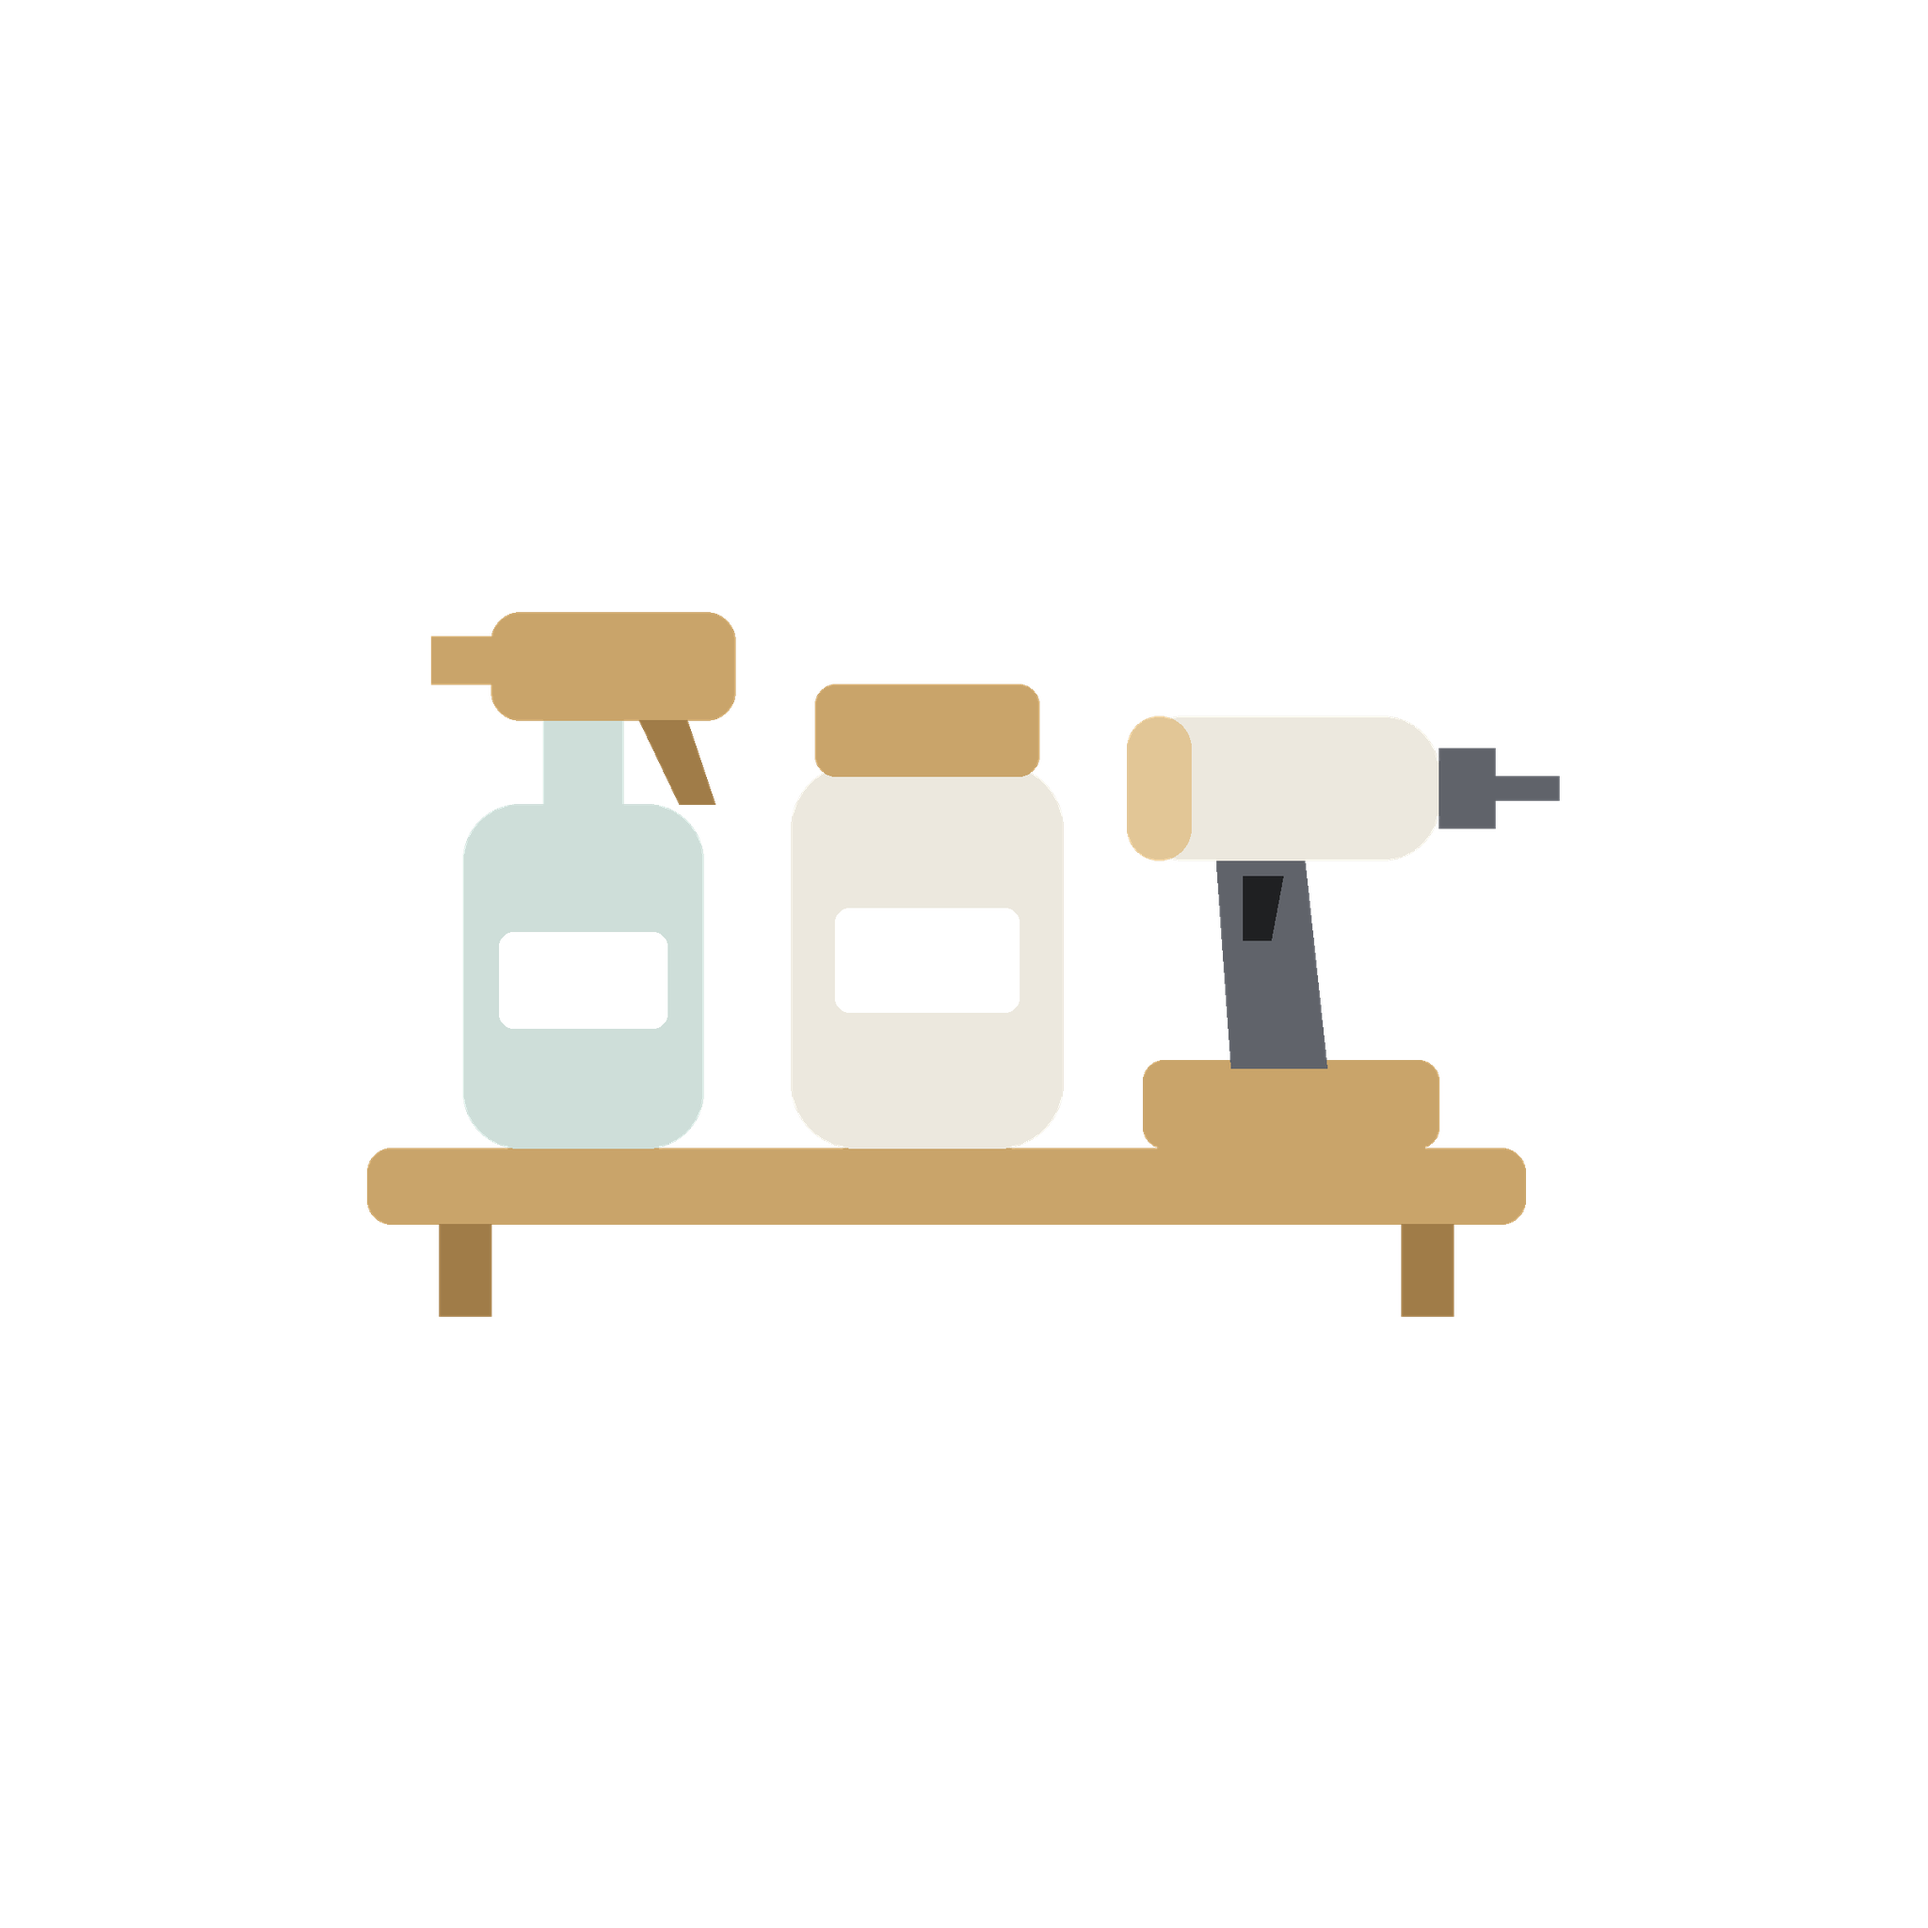
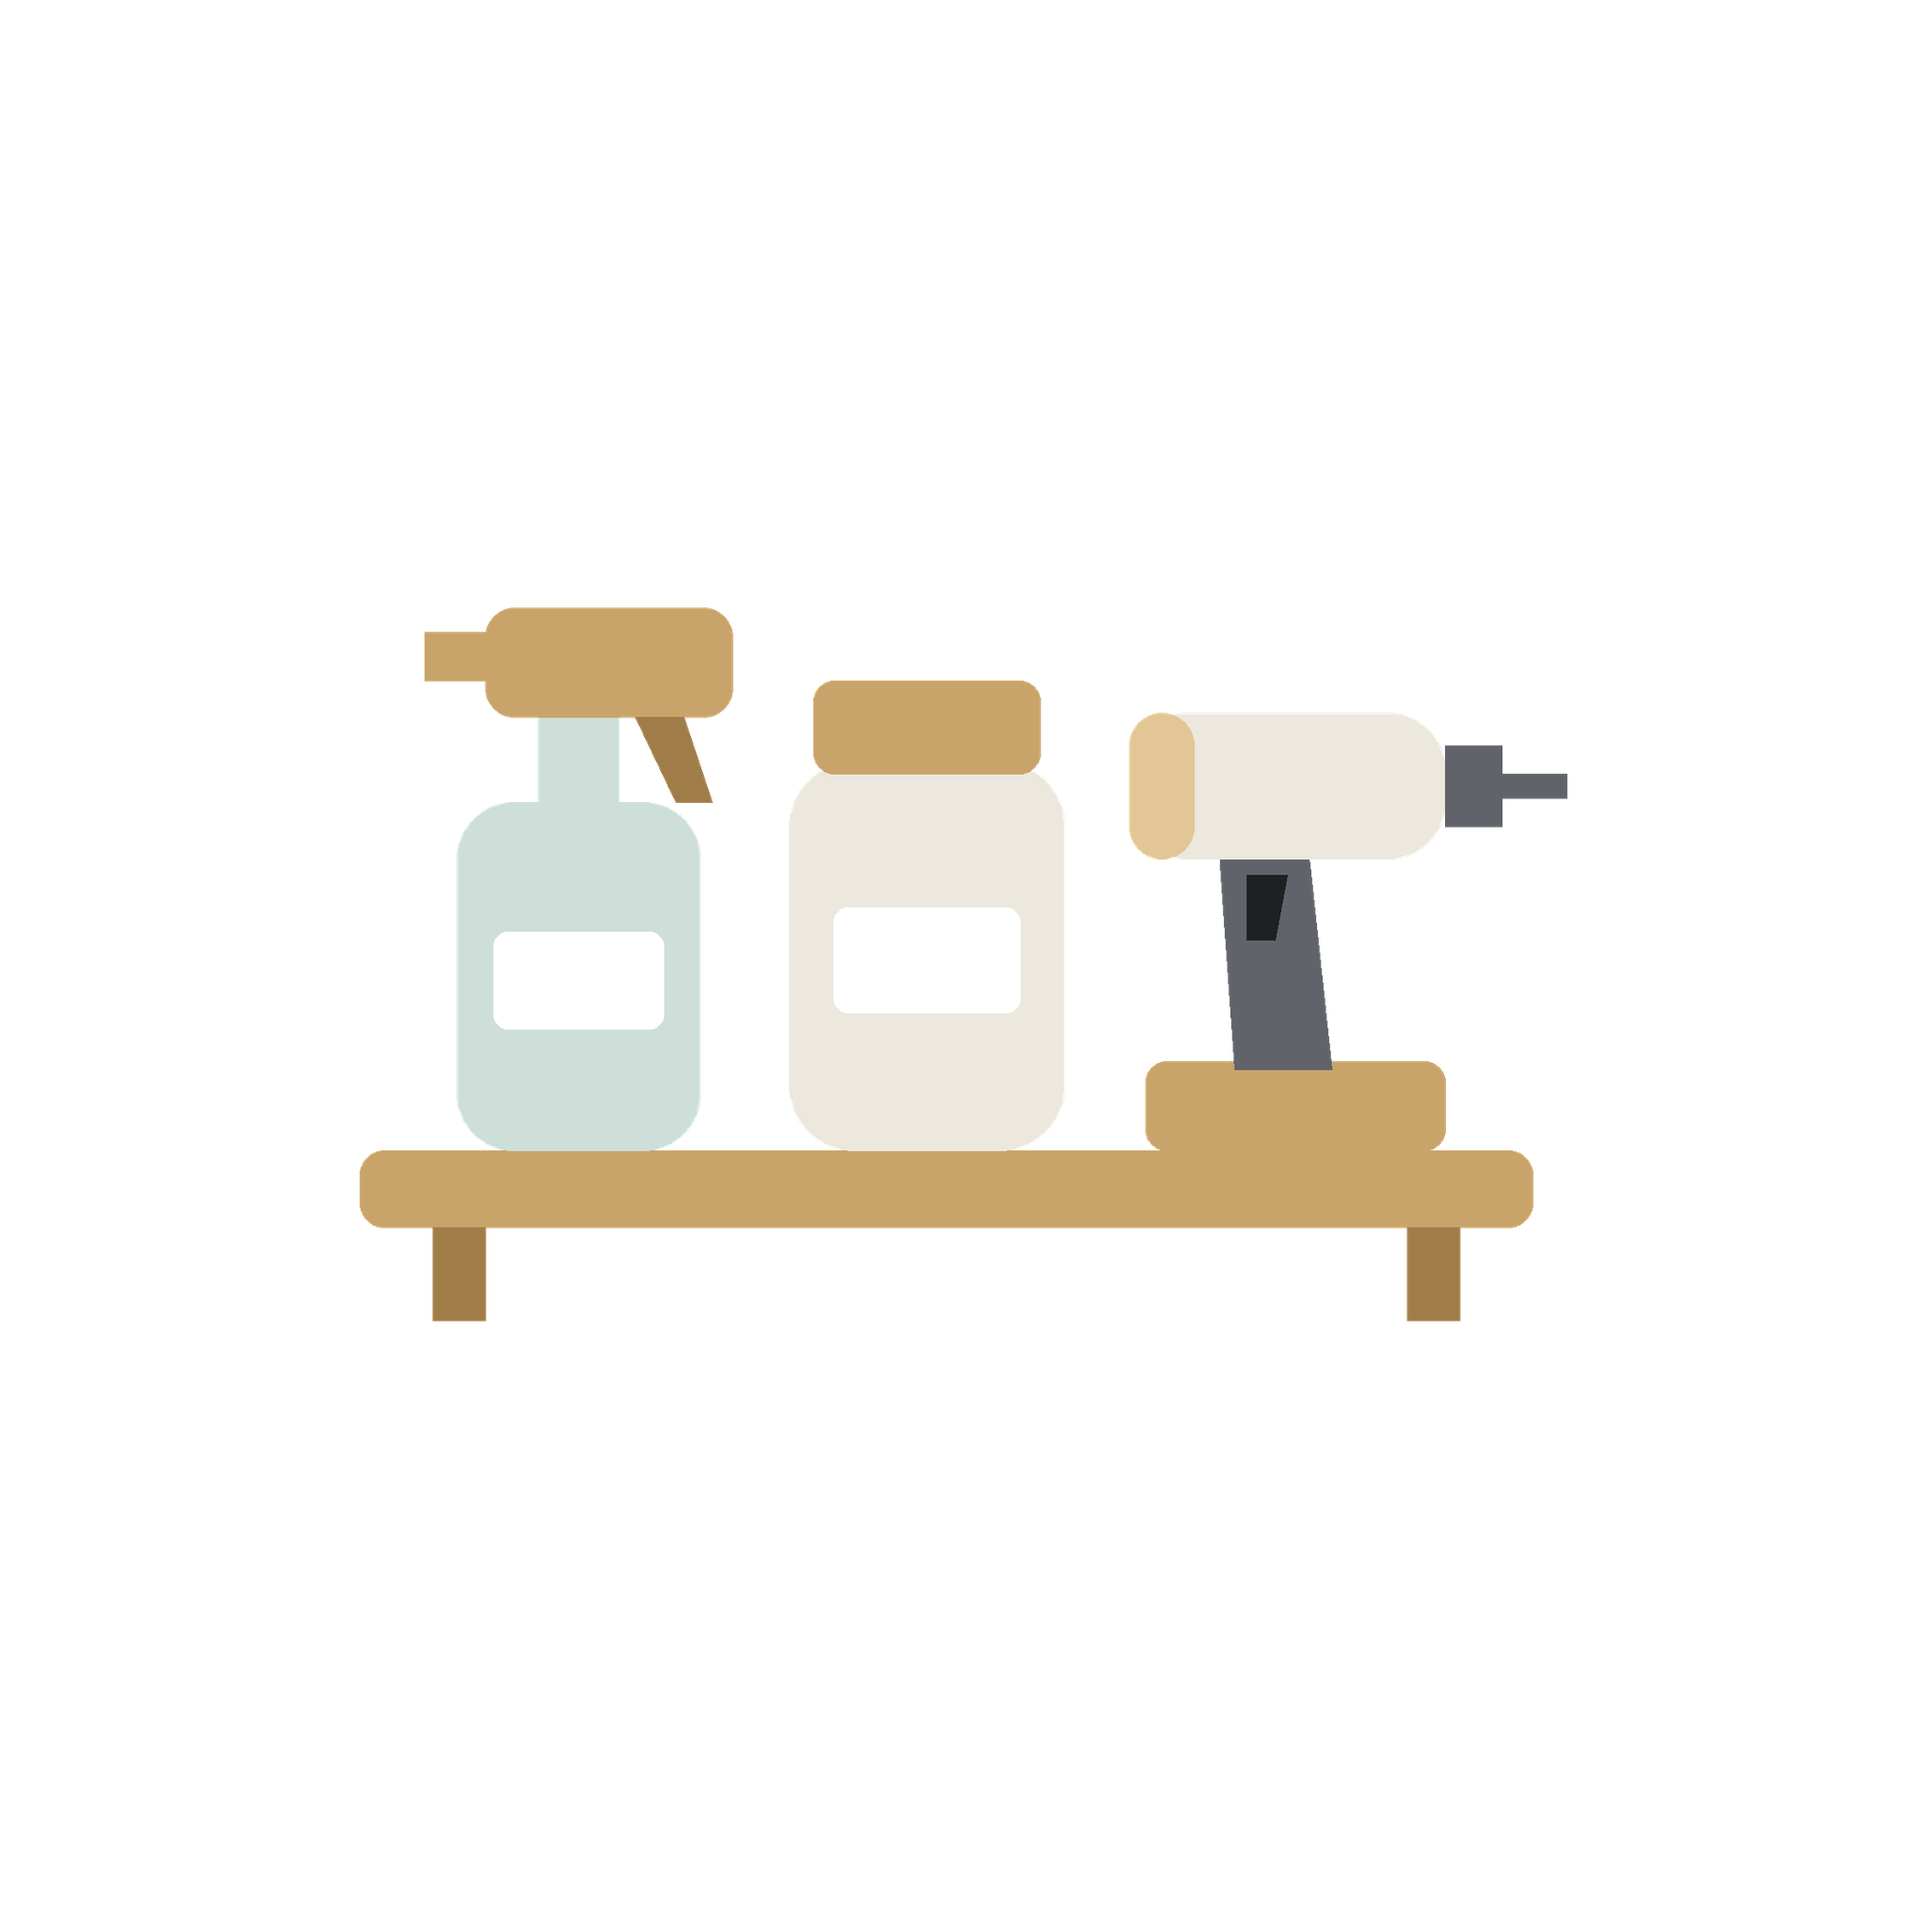
Kaydırınca küçülen üst bölüm; ikon çerçeveye yaklaştırıldı
Claude-Session: https://claude.ai/code/session_0157nVUCjmfAmmgk4EFESpMQ

diff --git a/www/index.html b/www/index.html
@@ -12,6 +12,7 @@
    LAYOUT: sabit üst bant + arama/sırala/filtre + kategori çipleri, kartlar, sağ altta + */
 :root{color-scheme:dark;--bg:#1f2022;--card:#303236;--ink:#eeeeec;--mute:#a3a5a8;--line:#3d3f44;--kraft:#c9a46a;--kraft2:#b48d52;--onk:#1b1a17;--warn:#ff8a4c;--bad:#ff6b6b;--ok:#86c97f;--seg:#eeeeec;--segoff:#4c4e54;--chip:#3a3c41}
 *{box-sizing:border-box;min-width:0;-webkit-tap-highlight-color:transparent}
+html{overflow-anchor:none}
 body{margin:0;background:var(--bg);color:var(--ink);font:16px/1.45 system-ui,-apple-system,"Segoe UI",Roboto,sans-serif;overflow-x:clip}
 button,input,select,textarea{font:inherit;color:inherit}
 button{cursor:pointer}
@@ -117,6 +118,20 @@ body.selecting .fab{display:none}
 .rad button.on{background:var(--chip);font-weight:650}
 .rad button span{font-size:13px;color:var(--mute)}
 .hid{display:none!important}
+/* kaydırınca küçülen üst bölüm */
+header,.top h1,.top .sum,.icon,.icon svg,.search,.search input,.chips,.chips button{transition:all .22s ease}
+body.compact header{padding-top:max(6px,env(safe-area-inset-top));padding-bottom:6px}
+body.compact .top h1{font-size:18px}
+body.compact .top .sum{font-size:11px}
+body.compact .icon{width:32px;height:32px;border-radius:8px}
+body.compact .icon svg{width:17px;height:17px}
+body.compact .icon .dot{top:4px;right:4px;width:7px;height:7px}
+body.compact .search{margin-top:6px}
+body.compact .search input{height:32px;font-size:14px;border-radius:8px}
+body.compact .chips{padding:6px 14px}
+body.compact .chips button{height:26px;font-size:12px;padding:0 10px}
+body.compact .chips .alert b{min-width:16px;line-height:16px;font-size:10px}
+@media(prefers-reduced-motion:reduce){header,.top h1,.top .sum,.icon,.icon svg,.search,.search input,.chips,.chips button{transition:none}}
 .tag.lb{background:none;border:1px solid var(--line);color:var(--ink)}
 .tagrow{display:flex;flex-wrap:wrap;gap:6px;align-items:center}
 .tagrow .tg{display:inline-flex;align-items:center;gap:2px;height:34px;padding:0 4px 0 12px;border-radius:8px;background:var(--chip);color:var(--ink);font-size:14px}
@@ -627,6 +642,10 @@ function goBack(){
 if(APP){APP.addListener('backButton',()=>{if(!goBack())APP.exitApp()});APP.addListener('resume',()=>{render();autoBackup()})}
 
 new ResizeObserver(()=>document.documentElement.style.setProperty('--hh',$('#hd').offsetHeight+'px')).observe($('#hd'));
+{let lastY=scrollY,up=0,hold=0;const setC=v=>{if(document.body.classList.contains('compact')!==v){document.body.classList.toggle('compact',v);hold=Date.now()+320}};
+  addEventListener('scroll',()=>{const y=scrollY,dy=y-lastY;lastY=y;if(Date.now()<hold)return;
+    if(y<24){up=0;setC(false);return}
+    if(dy>0){up=0;if(y>70)setC(true)}else{up+=dy;if(up<-40)setC(false)}},{passive:true})}
 render();
 if(isNative){
   (async()=>{try{if(!hadLocal&&PR){const r=await PR.get({key:KEY});if(r&&r.value){const d=JSON.parse(r.value);if(d&&Array.isArray(d.items)){S=migrate(d);try{localStorage.setItem(KEY,r.value)}catch(e){}render()}}}}catch(e){}
